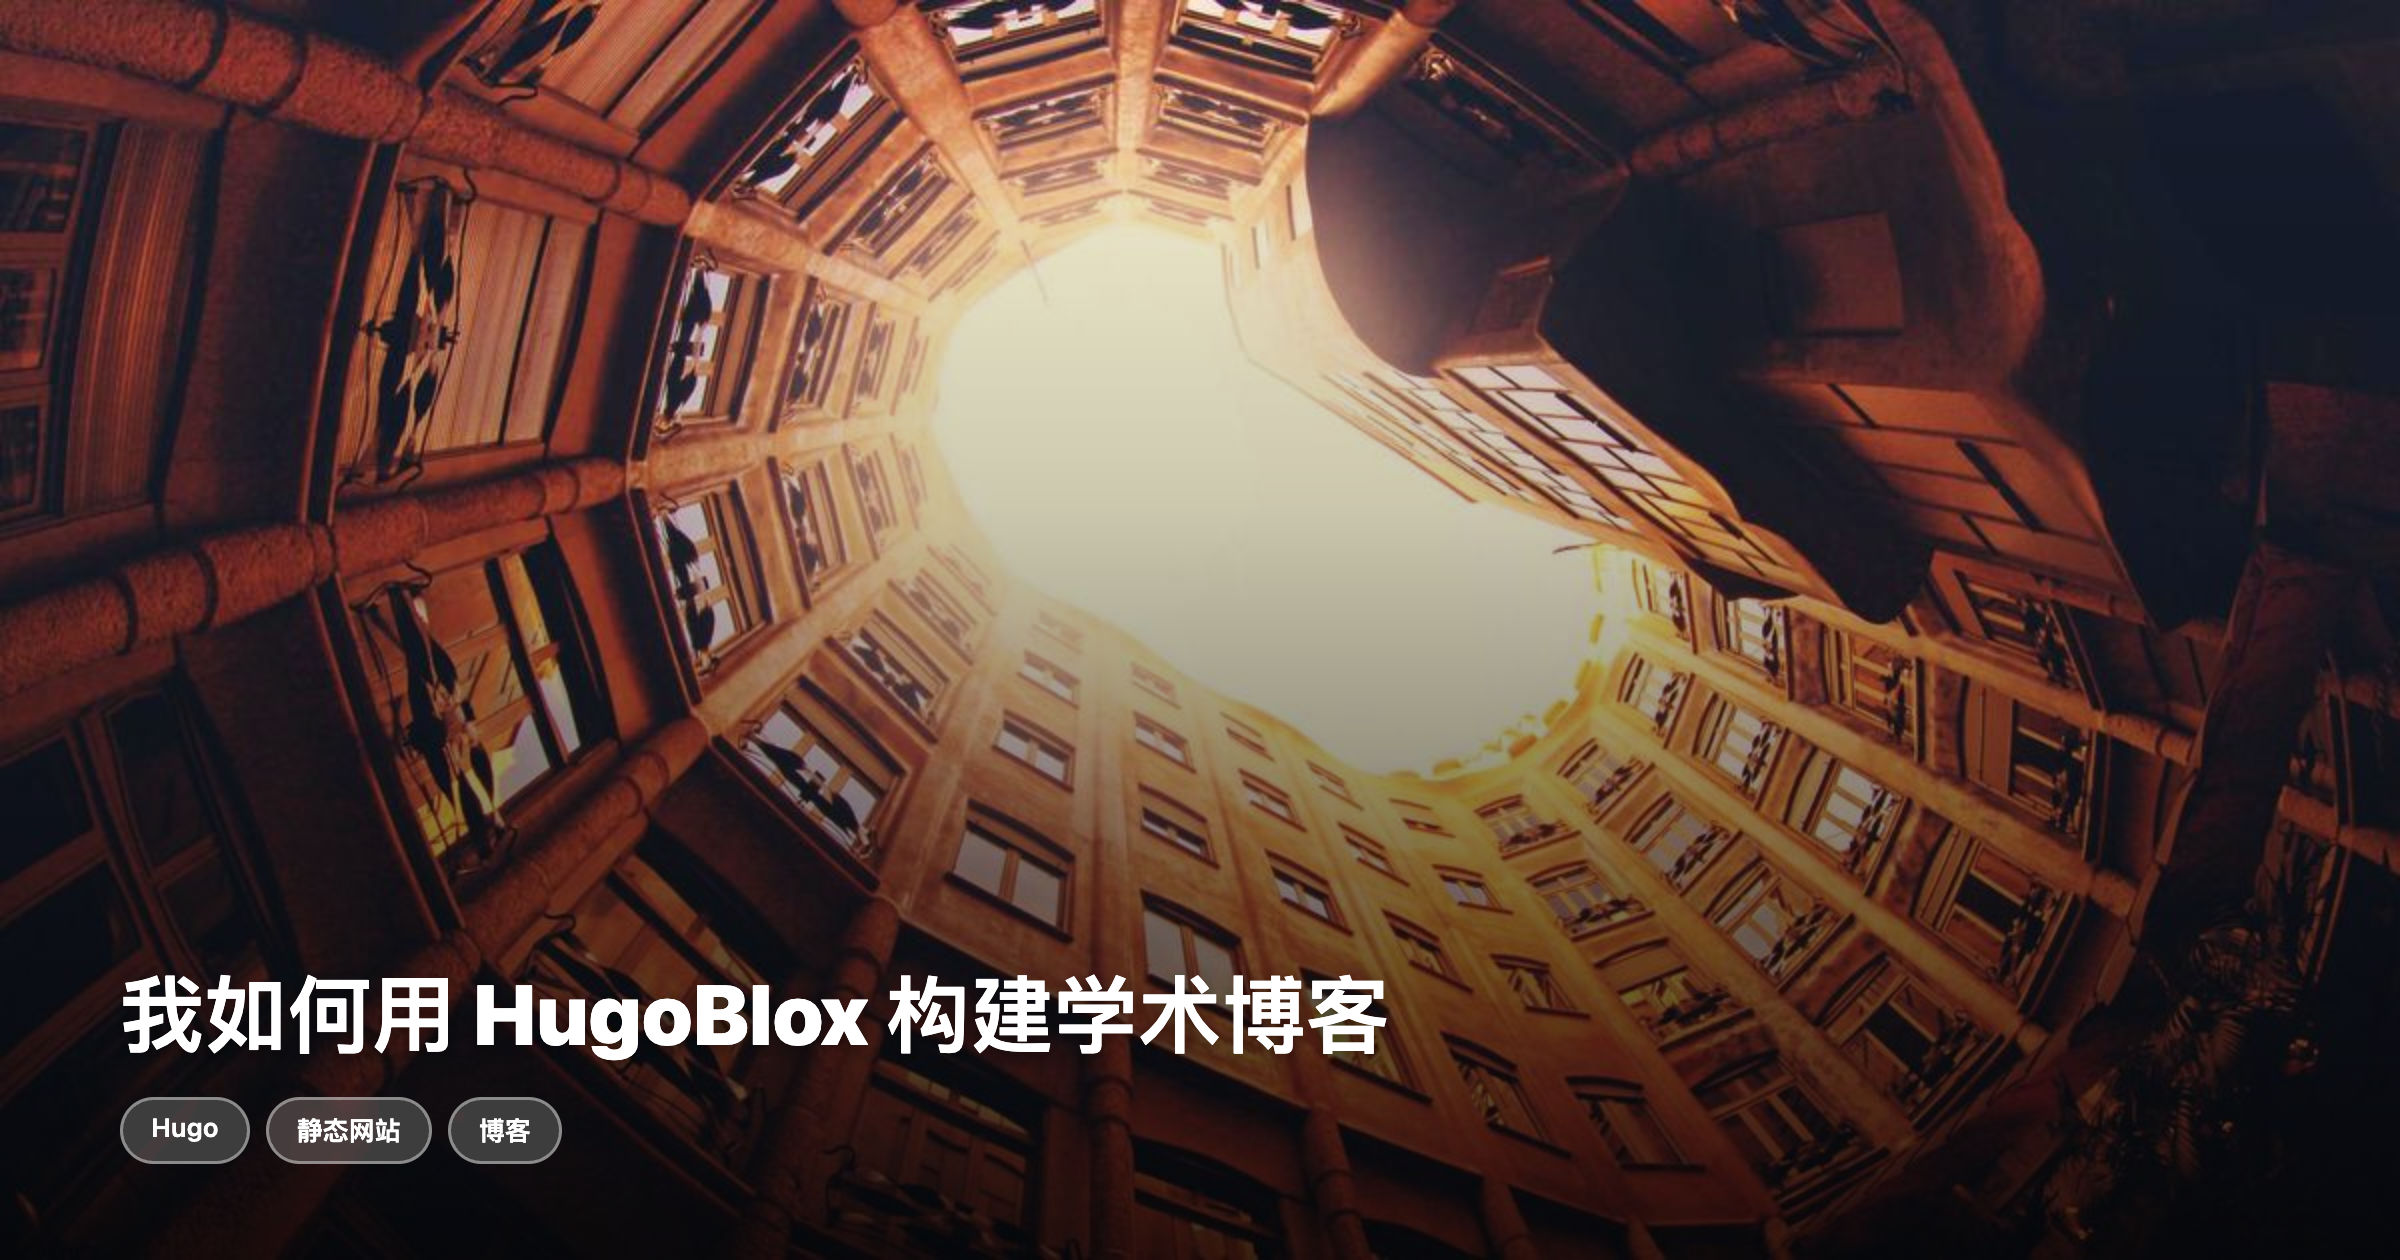
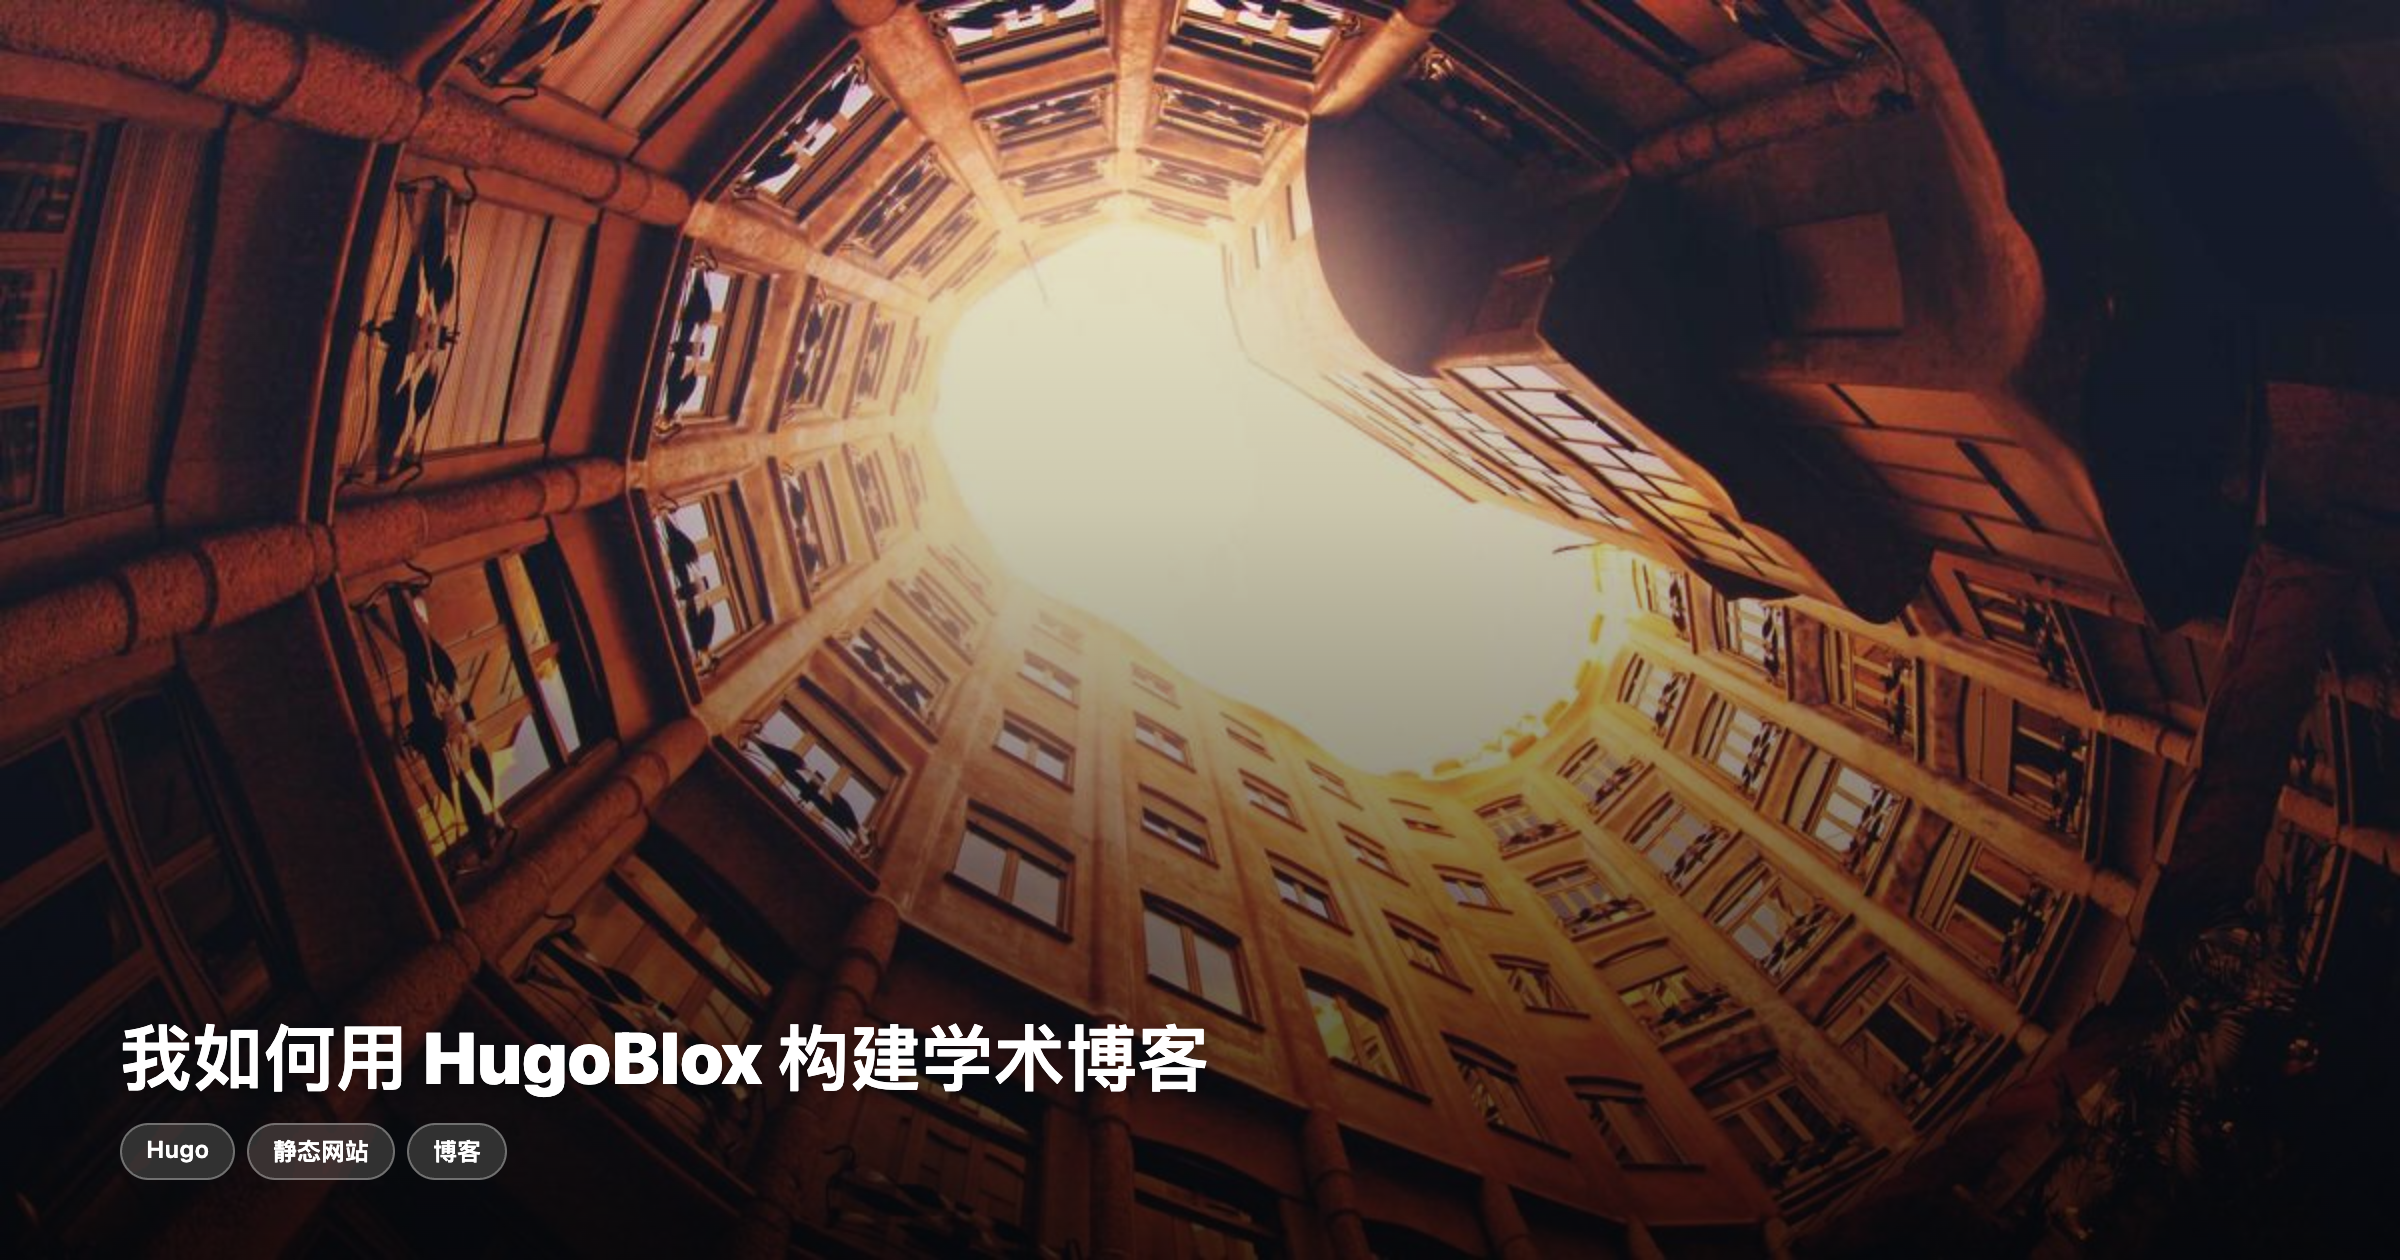
style: 优化封面排版，给摄影背景留出呼吸空间
- 标题字体 42px → 36px，行高 1.2 → 1.15
- 标题下间距 16px → 12px
- 标签字体 13px → 12px，padding 减小
- 标签间距 8px → 6px，border 1.5px → 1px
- 底部内容区 padding 48px → 40px

结果：摄影背景可视面积增加，文字不再挤压图片。

Changed region(s): [[0.0312, 0.7738, 0.5938, 0.9595]]

diff --git a/scripts/generate-cover-v3.js b/scripts/generate-cover-v3.js
@@ -30,7 +30,7 @@ const photoSeed = getArg('photo-seed') || '42';
 const output = getArg('output') || 'featured.png';
 
 const tagsHtml = tags.map(tag =>
-  `<span style="display:inline-block;padding:6px 14px;background:rgba(255,255,255,0.2);border:1.5px solid rgba(255,255,255,0.4);border-radius:20px;font-size:13px;font-weight:600;color:white;backdrop-filter:blur(4px);">${tag}</span>`
+  `<span style="display:inline-block;padding:5px 12px;background:rgba(255,255,255,0.15);border:1px solid rgba(255,255,255,0.3);border-radius:16px;font-size:12px;font-weight:600;color:white;backdrop-filter:blur(4px);">${tag}</span>`
 ).join('');
 
 const html = `<!DOCTYPE html>
@@ -58,16 +58,16 @@ const html = `<!DOCTYPE html>
   <!-- Content: bottom-left layout -->
   <div style="
     position:absolute;
-    bottom:48px;left:60px;right:60px;
+    bottom:40px;left:60px;right:60px;
     z-index:20;
     color:white;
   ">
     <!-- Article title (large, bold) -->
     <h1 style="
-      margin:0 0 16px 0;
-      font-size:42px;
+      margin:0 0 12px 0;
+      font-size:36px;
       font-weight:900;
-      line-height:1.2;
+      line-height:1.15;
       text-shadow:0 2px 8px rgba(0,0,0,0.4);
       color:white;
     ">${title}</h1>
@@ -75,7 +75,7 @@ const html = `<!DOCTYPE html>
     <!-- Tags -->
     <div style="
       display:flex;
-      gap:8px;
+      gap:6px;
       flex-wrap:wrap;
     ">${tagsHtml}</div>
   </div>
